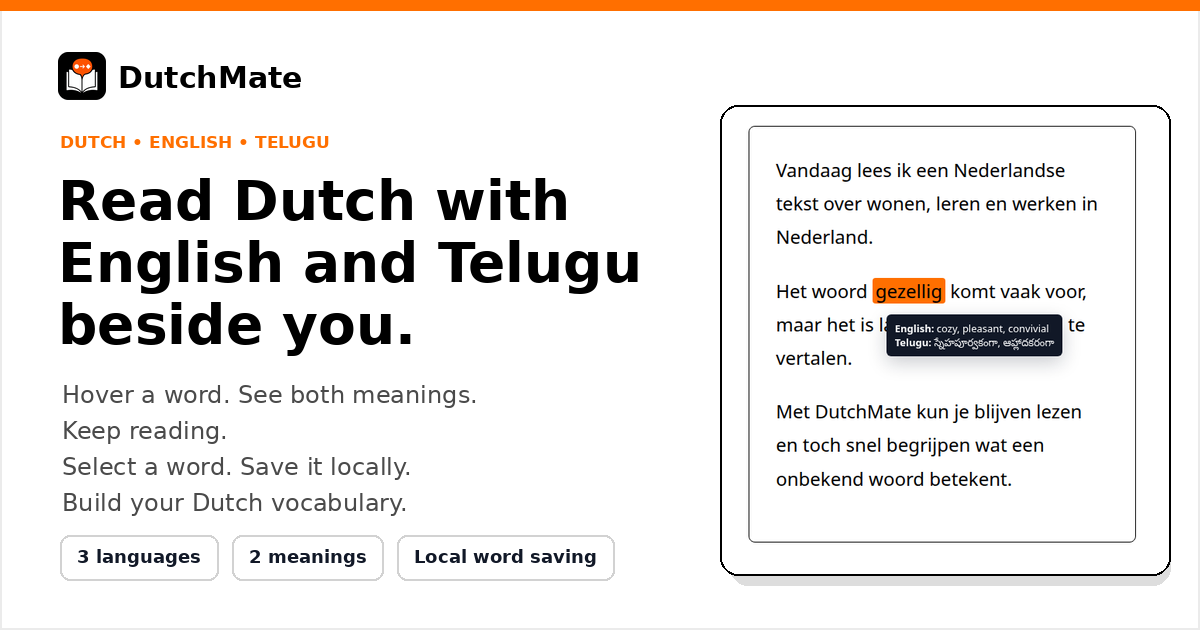
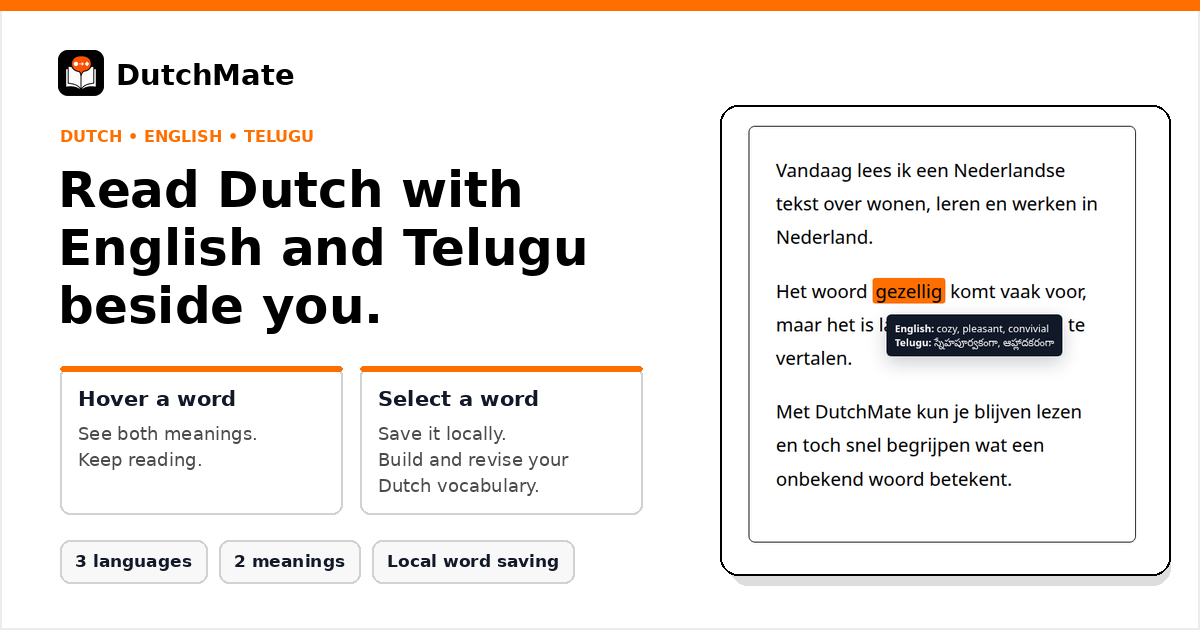
Use two-card vocabulary copy on homepage

Changed region(s): [[0.0308, 0.2714, 0.555, 0.9349], [0.0308, 0.0905, 0.2775, 0.2413]]

diff --git a/frontend/styles.css b/frontend/styles.css
@@ -166,6 +166,39 @@ h3 {
   font-size: 1.18rem;
 }
 
+.hero-value-grid {
+  display: grid;
+  grid-template-columns: repeat(2, minmax(0, 1fr));
+  gap: 14px;
+  max-width: 640px;
+  margin-top: 28px;
+}
+
+.hero-value-card {
+  min-height: 140px;
+  padding: 18px;
+  border: 1px solid var(--dm-line);
+  border-top: 4px solid var(--dm-orange);
+  border-radius: 8px;
+  background: var(--dm-white);
+}
+
+.hero-value-card h2 {
+  margin: 0;
+  color: var(--dm-black);
+  font-family: var(--dm-sans);
+  font-size: 0.95rem;
+  font-weight: 850;
+  line-height: 1.2;
+}
+
+.hero-value-card p {
+  margin: 12px 0 0;
+  color: var(--dm-muted);
+  font-size: 1rem;
+  line-height: 1.45;
+}
+
 .hero-actions {
   display: flex;
   flex-wrap: wrap;
@@ -412,6 +445,7 @@ h3 {
   }
 
   .trust-row,
+  .hero-value-grid,
   .grid-3,
   .screenshot-grid,
   .steps {

diff --git a/frontend/index.html b/frontend/index.html
@@ -3,11 +3,11 @@
   <head>
     <meta charset="utf-8">
     <meta name="viewport" content="width=device-width, initial-scale=1">
-    <meta name="description" content="Read Dutch websites with English and Telugu beside you. Hover a word, see both meanings, and keep reading.">
+    <meta name="description" content="Read Dutch websites with English and Telugu beside you. Hover a word, see both meanings, and keep reading. Select a word to build and revise your Dutch vocabulary.">
     <meta property="og:type" content="website">
     <meta property="og:site_name" content="DutchMate">
     <meta property="og:title" content="DutchMate | Read Dutch with English and Telugu beside you">
-    <meta property="og:description" content="Hover a word. See both meanings. Keep reading. Select a word. Save it locally. Build your Dutch vocabulary.">
+    <meta property="og:description" content="Hover a word. See both meanings. Keep reading. Select a word. Save it locally. Build and revise your Dutch vocabulary.">
     <meta property="og:url" content="https://dutchmate-frontend.onrender.com/">
     <meta property="og:image" content="https://dutchmate-frontend.onrender.com/assets/og-dutchmate-hover-1200x630.png">
     <meta property="og:image:width" content="1200">
@@ -15,7 +15,7 @@
     <meta property="og:image:alt" content="DutchMate showing English and Telugu meanings while reading a Dutch word online.">
     <meta name="twitter:card" content="summary_large_image">
     <meta name="twitter:title" content="DutchMate | Read Dutch with English and Telugu beside you">
-    <meta name="twitter:description" content="Hover a word. See both meanings. Keep reading. Select a word. Save it locally. Build your Dutch vocabulary.">
+    <meta name="twitter:description" content="Hover a word. See both meanings. Keep reading. Select a word. Save it locally. Build and revise your Dutch vocabulary.">
     <meta name="twitter:image" content="https://dutchmate-frontend.onrender.com/assets/og-dutchmate-hover-1200x630.png">
     <meta name="twitter:image:alt" content="DutchMate showing English and Telugu meanings while reading a Dutch word online.">
     <title>DutchMate | Read Dutch with English and Telugu beside you</title>
@@ -43,7 +43,16 @@
         <div>
           <p class="eyebrow">Learn Dutch while reading real websites</p>
           <h1>Read Dutch with English and Telugu beside you.</h1>
-          <p class="lead">Hover a Dutch word. See English and Telugu. Keep reading. Select a word to save it locally for your future word practice.</p>
+          <div class="hero-value-grid" aria-label="DutchMate core learning actions">
+            <article class="hero-value-card">
+              <h2>Hover a word</h2>
+              <p>See both meanings.<br>Keep reading.</p>
+            </article>
+            <article class="hero-value-card">
+              <h2>Select a word</h2>
+              <p>Save it locally.<br>Build and revise your Dutch vocabulary.</p>
+            </article>
+          </div>
           <div class="hero-actions" id="get-dutchmate">
             <a class="button" href="mailto:[email redacted]?subject=DutchMate%20early%20access">Email for early access</a>
           </div>